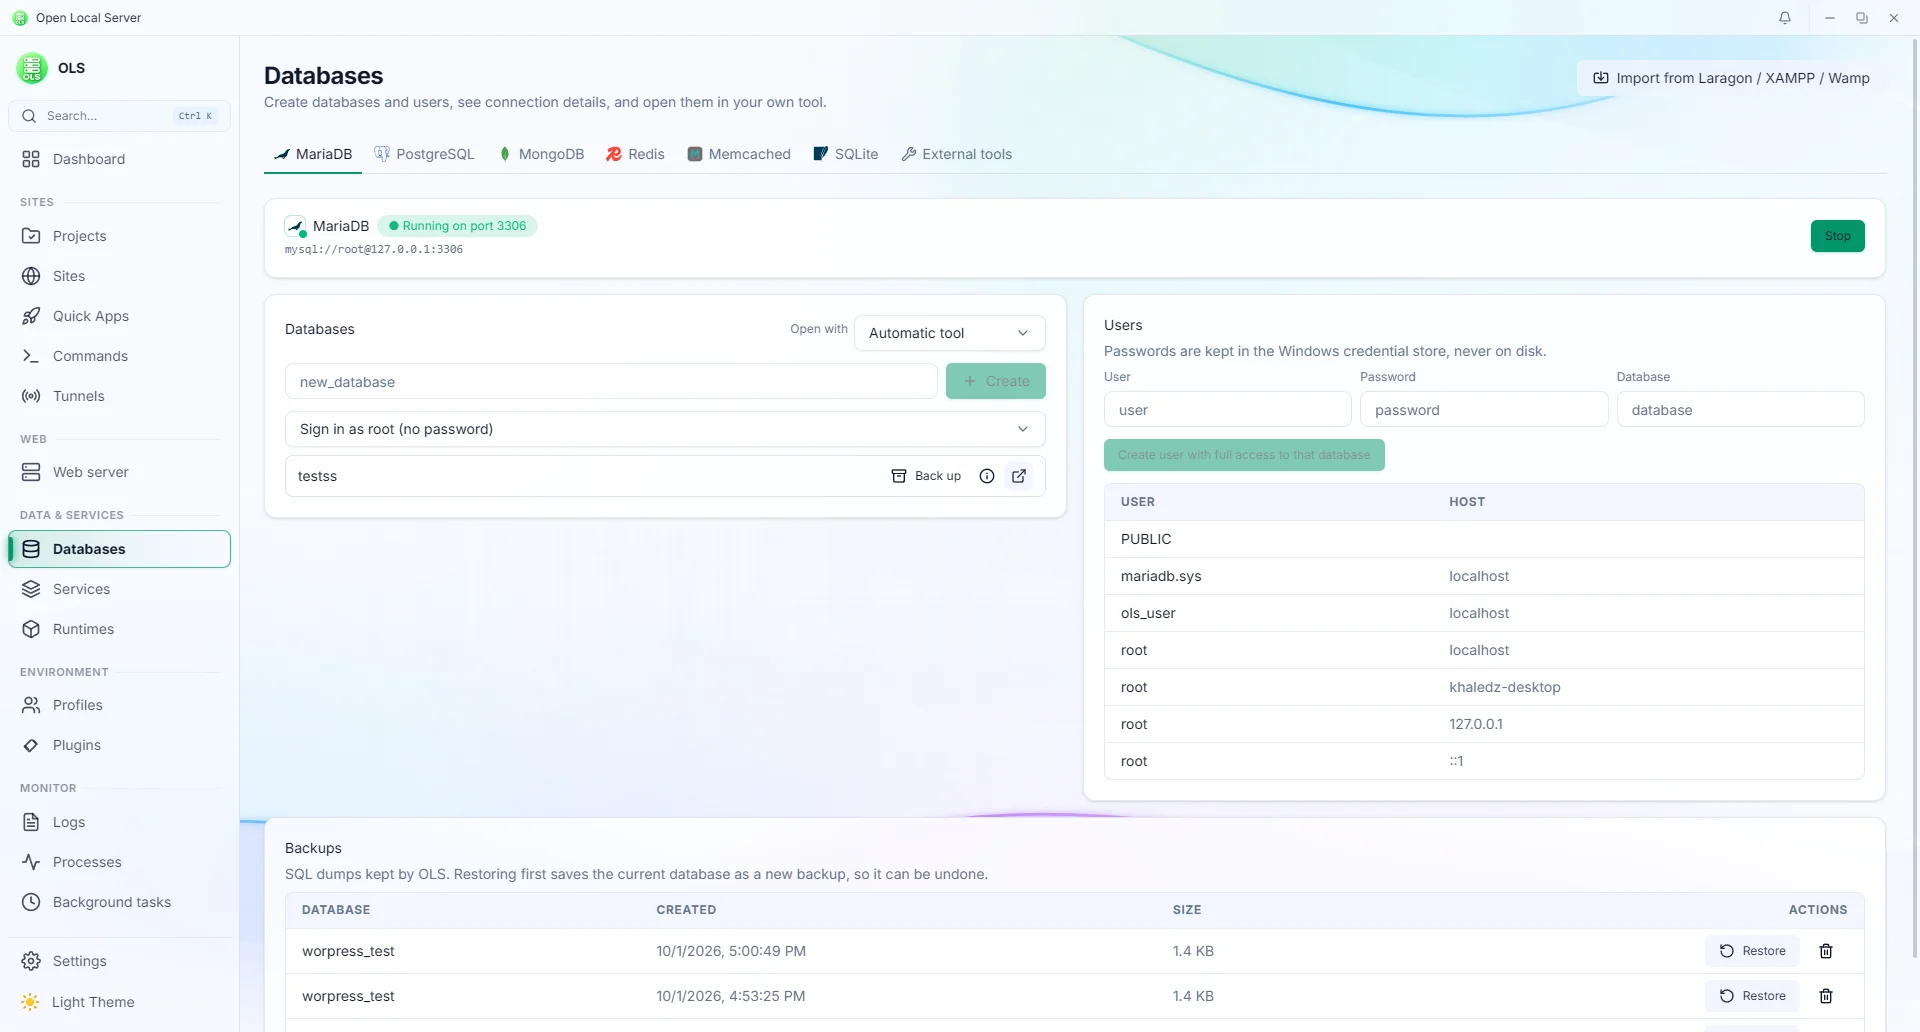
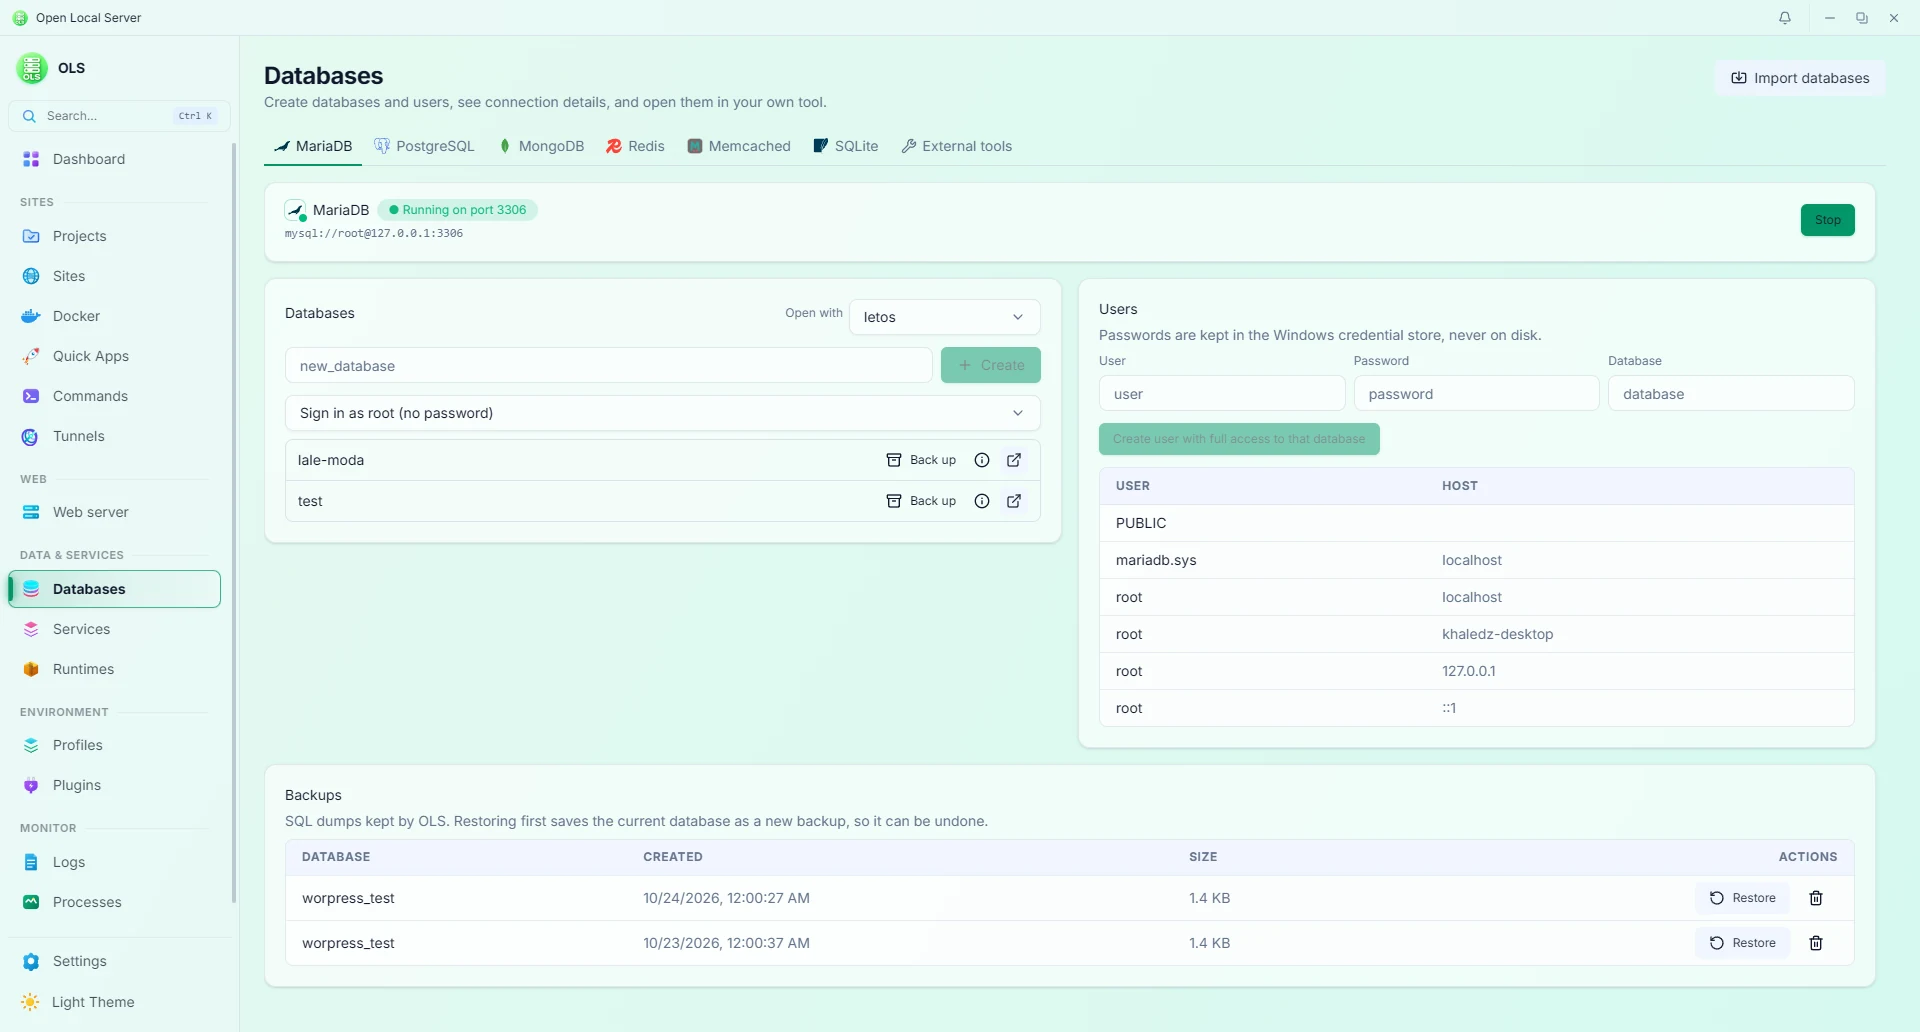
docs: retake README/website screenshots with fake sites and add seed script
- Dashboard, Sites, Projects, Runtimes, PHP versions, Databases, Web server and
  Tunnels screenshots retaken so the sidebar shows Docker; Sites and Projects use
  fake sites
- scripts/screenshots/seed-fake-sites.ps1 and fake-sites.json write fake site
  folders with favicons into data/fake_sites

diff --git a/index.html b/index.html
@@ -489,7 +489,7 @@
                     <span class="shot__title">Sites</span>
                   </div>
                   <div class="shot__img">
-                    <img src="website/assets/img/sites.webp" width="1710" height="920" loading="lazy" alt="The Sites page: one table of sites and projects with a checkbox on every row, one row selected and a bulk bar offering Enable, Add auto domain, Disable, a web server dropdown with Move sites, Delete and Clear. Filters for all, PHP and static HTML, and rows-per-page and page controls at the foot of the table." />
+                    <img src="website/assets/img/sites.webp" width="1920" height="1032" loading="lazy" alt="The Sites page: one table of sites and projects with a checkbox on every row, one row selected and a bulk bar offering Enable, Add auto domain, Disable, a web server dropdown with Move sites, Delete and Clear. Filter tabs for Enabled, Disabled, Folder not found, PHP, Reverse proxy, No domain and All, with Export and Hide/Exclude in the bulk bar and rows-per-page and page controls at the foot of the table. The sidebar now lists Docker under Sites." />
                   </div>
                 </figure>
                 <p class="panel__caption">
@@ -505,7 +505,7 @@
                     <span class="shot__title">Projects</span>
                   </div>
                   <div class="shot__img">
-                    <img src="website/assets/img/projects.webp" width="1710" height="920" loading="lazy" alt="The Projects page showing project folders, project types, connected sites, search, and actions to add or clone a project." />
+                    <img src="website/assets/img/projects.webp" width="1920" height="1032" loading="lazy" alt="The Projects page showing project folders, project types, connected sites, search, and actions to add or clone a project." />
                   </div>
                 </figure>
                 <p class="panel__caption">
@@ -521,7 +521,7 @@
                     <span class="shot__title">Runtimes</span>
                   </div>
                   <div class="shot__img">
-                    <img src="website/assets/img/runtimes.webp" width="1920" height="1032" loading="lazy" alt="The Runtimes page listing Apache, Caddy, Composer, HeidiSQL, k6, Mailpit, MariaDB, Memcached, MongoDB, Nginx, Node.js, pgAdmin, PHP, PostgreSQL and Redis with installed versions, default badges and manage actions." />
+                    <img src="website/assets/img/runtimes.webp" width="1920" height="1032" loading="lazy" alt="The Runtimes page listing Apache, Caddy, Composer, Git, k6, Mailpit, MariaDB, Memcached, MongoDB, Nginx, Node.js, PHP, PostgreSQL, Python, Redis and SQLite with installed versions, default badges, update buttons and manage actions." />
                   </div>
                 </figure>
                 <p class="panel__caption">
